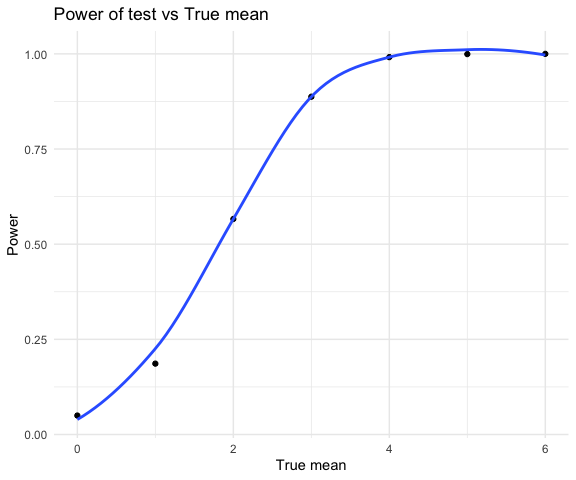
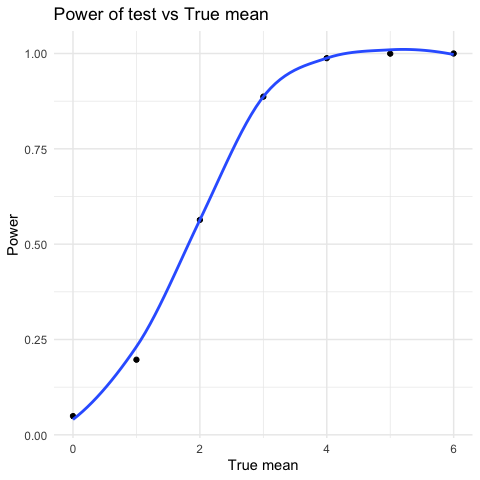
change the figure width

diff --git a/p8105_hw5_hs3393.md b/p8105_hw5_hs3393.md
@@ -9,8 +9,8 @@ library(ggplot2)
 library(patchwork)
 
 knitr::opts_chunk$set(
-  fig.width = 6,
-  out.width = "80%"
+  fig.width = 5,
+  out.width = "60%"
 )
 
 theme_set(theme_minimal() + theme(legend.position = "bottom"))
@@ -77,7 +77,7 @@ tidy_df %>%
   facet_grid(~group)
 ```
 
-<img src="p8105_hw5_hs3393_files/figure-gfm/unnamed-chunk-3-1.png" width="80%" />
+<img src="p8105_hw5_hs3393_files/figure-gfm/unnamed-chunk-3-1.png" width="60%" />
 
 This plot suggests high within-subject correlation – subjects who start
 above average end up above average, and those that start below average
@@ -173,7 +173,7 @@ casenum %>%
   labs(y = "Estimate proportion", x = "City", title = "Estimated proportion of unsolved homicides in each city")
 ```
 
-<img src="p8105_hw5_hs3393_files/figure-gfm/prop.test for every city-1.png" width="80%" />
+<img src="p8105_hw5_hs3393_files/figure-gfm/prop.test for every city-1.png" width="60%" />
 
 ## Problem 3
 
@@ -204,7 +204,7 @@ sim_df %>%
 
     ## `geom_smooth()` using formula 'y ~ x'
 
-<img src="p8105_hw5_hs3393_files/figure-gfm/simulation-1.png" width="80%" />
+<img src="p8105_hw5_hs3393_files/figure-gfm/simulation-1.png" width="60%" />
 
 As the true value of $\mu$ increases, the power of test also increases.
 
@@ -241,7 +241,7 @@ plot1 + plot2
     ## `geom_smooth()` using formula 'y ~ x'
     ## `geom_smooth()` using formula 'y ~ x'
 
-<img src="p8105_hw5_hs3393_files/figure-gfm/simulation2-1.png" width="80%" />
+<img src="p8105_hw5_hs3393_files/figure-gfm/simulation2-1.png" width="60%" />
 
 The average of $\hat{\mu}$ in samples for which the null was rejected is
 not approximately equal to the true $\mu$ when the true $\mu$ is close
